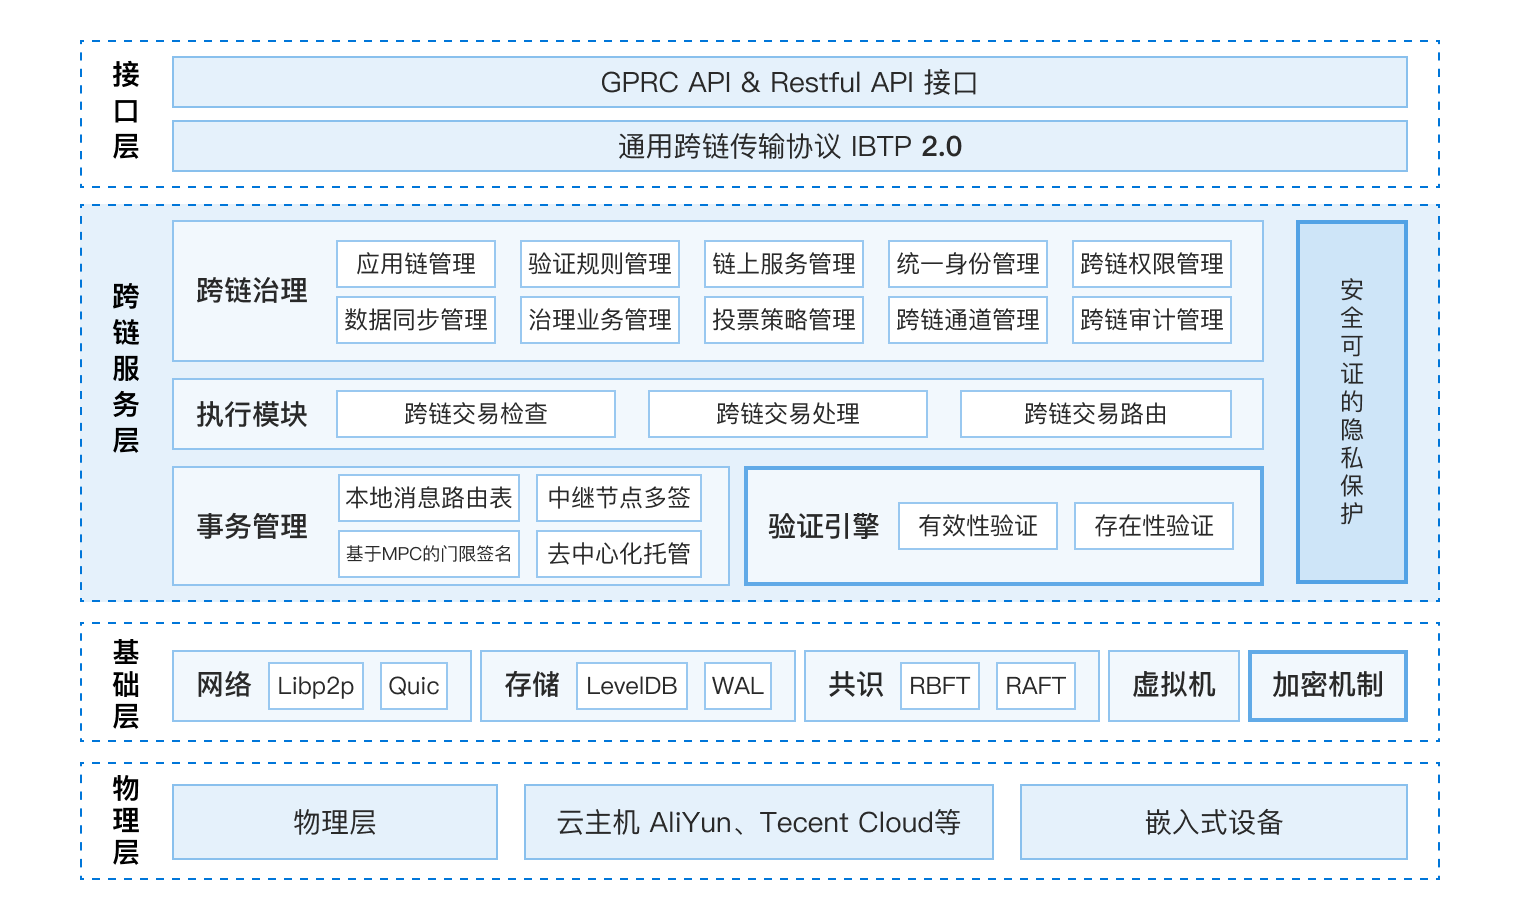
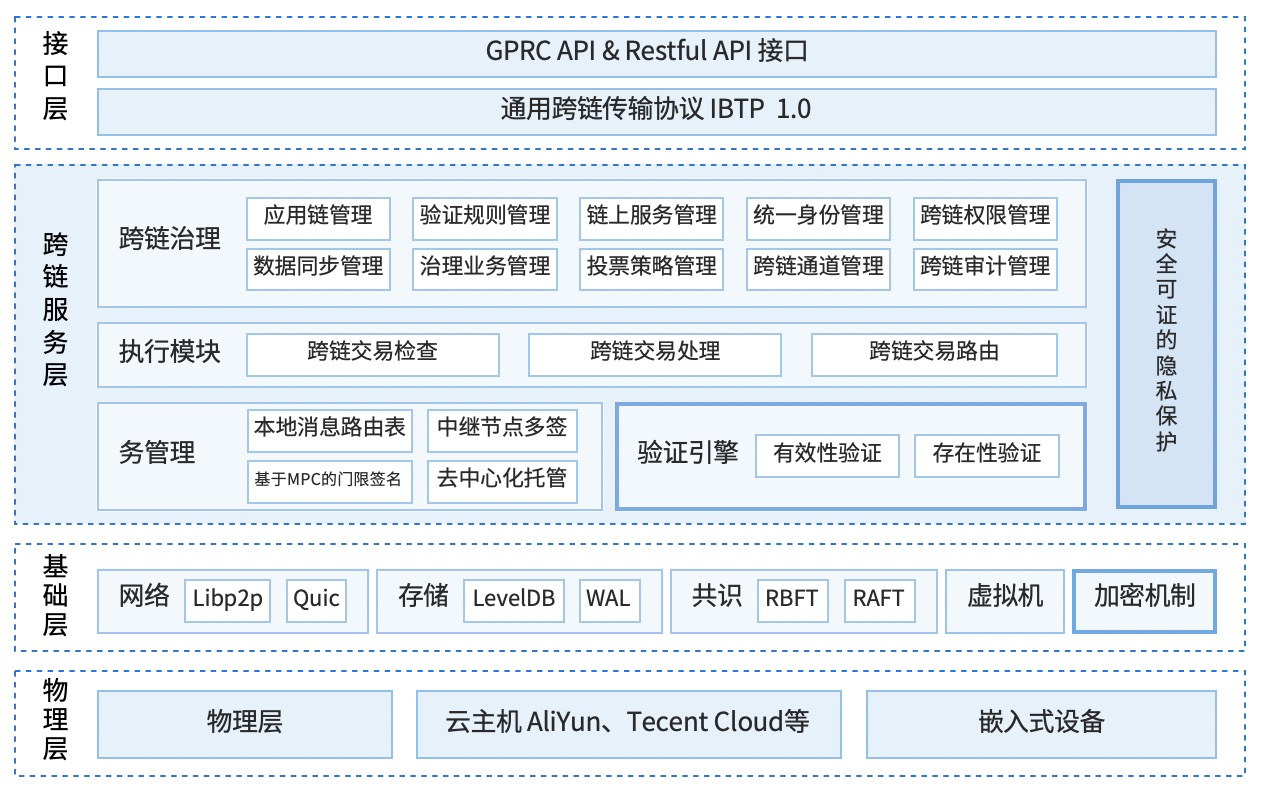
fix:pic display
feat:update relay manager

Changed region(s): [[0.0, 0.0303, 0.9873, 0.9697]]

diff --git a/docs/bitxhub/dev/cmd/pier_cmd.md b/docs/bitxhub/dev/cmd/pier_cmd.md
@@ -59,7 +59,6 @@ USAGE:
 
 COMMANDS:
    method    Command about appchain method
-   did       Command about appchain did
    register  Register pier to bitxhub
    update    update appchain in bitxhub
    activate  activate appchain in bitxhub
@@ -574,3 +573,60 @@ System version: darwin/amd64
 Golang version: go1.15.13
 ```
 
+
+
+### pier propsals 
+
+`pier proposals`命令用于撤销指定的提案。
+
+**用法**
+
+```shell
+NAME:
+   Pier proposals - proposals manage command
+
+USAGE:
+   Pier proposals command [command options] [arguments...]
+
+COMMANDS:
+   withdraw  withdraw a proposal
+
+```
+
+**子命令**
+
+#### Pier proposals withdraw
+
+```shell
+NAME:
+   Pier proposals withdraw - withdraw a proposal
+
+USAGE:
+   Pier proposals withdraw [command options] [arguments...]
+
+OPTIONS:
+   --admin-key value  Specific admin key path
+   --id value         proposal id
+   --reason value     Specify governance reason
+
+```
+
+**样例**
+
+当想要撤销某个提案时（如注册应用链的提案）使用如下命令。其中，proposal id 为想要撤销的提案号，提案生成参考[中继模式应用链管理](/v1.11/bitxhub/function/relay_manager/)。
+
+```shell
+# 应用链所在网关撤销提案
+$ pier --repo $(pwd) proposals withdraw --admin-key ./key.json --id 0x450884c9F7fdFc72E2bC1245306d15dE1750A880-0 --reason "withdraw proposal"
+
+# 撤销提案后，在中继链查询提案状态可以看到提案状态为：withdrawn by the proposal sponsor
+$ bitxhub client governance proposal query -id 0x450884c9F7fdFc72E2bC1245306d15dE1750A880-0
+========================================================================================
+Id                                            ManagedObjectId               Type         EventType  Status  A/R  IE/AE/TE  Special/Super  CreateTime           Description  EndReason
+--                                            ---------------               ----         ---------  ------  ---  --------  -------------  ----------           -----------  ---------
+0x450884c9F7fdFc72E2bC1245306d15dE1750A880-0  did:bitxhub:fabricappchain:.  AppchainMgr  register   reject  0/0  4/4/3     false/false    1643088788665643000               withdrawn by the proposal sponsor
+========================================================================================
+* A/R：approve num / reject num
+* IE/AE/TE：the total number of electorate at the time of the initial proposal / the number of available electorate currently /the minimum threshold for votes to take effect
+* Special/Super：is special proposal / is super admin voted
+```

diff --git a/docs/bitxhub/usage/overall_description.md b/docs/bitxhub/usage/overall_description.md
@@ -10,19 +10,17 @@
 
 一般来说，单中继链架构适用于大多数部署场景，建议您使用此种部署架构来体验BitXHub跨链系统。如下图所示，部署完bitxhub节点集群（也可以是solo模式的单机节点），两条或多条应用链上部署好跨链合约，然后通过各自的跨链网关接入到中继链中，完成跨链系统的搭建。
 
-<img src="../../assets/single_bitxhub.png" alt="single_bitxhub" style="zoom:50%;" />
+![single_bitxhub](../../assets/single_bitxhub.png)
 
 在明晰了部署架构之后，这里再说明下部署的一般流程：
 
 1. 首先需要部署BitXHub中继链节点，这是搭建跨链系统的基础，可以参考单中继链部署架构目录下的[中继链部署](./single_bitxhub/deploy_bitxhub.md)文档；
 2. 然后是部署Pier跨链网关节点，这是接入应用链的必要组件，其中重要的流程有跨链合约部署、网关/插件的配置修改、应用链注册和验证规则部署，可以参考单中继链部署架构目录下的[跨链网关部署](./single_bitxhub/deploy_pier.md)文档。
-
-<img src="../../assets/deploy_flow.png" alt="deploy_flow" style="zoom:50%;" />
-
+![deploy_flow](../../assets/deploy_flow.png)
 
 
 ## 3. 跨链网关直连部署架构
 
 跨链网关直连部署架构是指不使用中继链，两方的应用链通过跨链网关与对方直接连接，部署结构如下图所示，除了无需部署中继链节点之外，部署的流程与上一章基本一致，具体的部署流程可以参考[跨链网关直连模式部署](./direct_mode_pier/pier_direct_mode_deploy.md)文档。
 
-<img src="../../assets/direct_pier.png" alt="direct_pier" style="zoom:50%;" />
+![direct_pier](../../assets/direct_pier.png)

diff --git a/docs/bitxhub/operation/node_log_view.md b/docs/bitxhub/operation/node_log_view.md
@@ -8,15 +8,12 @@
 
 如果是通过nohup等后台启动的节点，在节点主配置目录的logs文件夹中就是节点的日志文件，打开即可检查日志，一般情况下除了出块，bitxhub节点之间会定时相互`ping`其它节点并返回延时信息，可以简单看到节点集群之间的网络状态。
 
-<img src="../../../assets/bitxhub-log.png" alt="bitxhub-log" style="zoom:50%;" />
-
+![bitxhub-log.png](../../../assets/bitxhub-log.png)
 ### Pier
 
 如果是在终端前台启动的节点，那么日志会实时打印在终端上，观察其无报错即可；
 
 如果是通过nohup等后台启动的节点，在节点主配置目录的logs文件夹中就是节点的日志文件，打开即可检查日志，
 
-<img src="../../../assets/pier-log.png" alt="pier-log" style="zoom:50%;" />
-
-
+![pier-log](../../../assets/pier-log.png)
 

diff --git a/docs/bitxhub/function/relay_manager.md b/docs/bitxhub/function/relay_manager.md
@@ -183,7 +183,10 @@ the activate request was submitted successfully, proposal id is 0xCc9b389cEA6b1E
 
 管理员进行审核并投票，与注册应用链部分一致，不再赘述。
 
-## 5. 注销应用链
+
+
+## 4. 注销应用链
+
 ### pier appchain logout
 如果应用链退出跨链系统，不再进行跨链，应用链管理员可以向中继链提交注销应用链的提案。命令如下：
 ```shell
@@ -198,6 +201,10 @@ the logout request was submitted successfully, proposal id is 0xCc9b389cEA6b1E28
 ```
 
 管理员进行审核并投票，与注册应用链部分一致，不再赘述。
+
+
+
+## 5. 获取应用链信息
 
 ### Pier appchain get 
 

diff --git a/docs/bitxhub/operation/node_status_check.md b/docs/bitxhub/operation/node_status_check.md
@@ -10,8 +10,7 @@
 
 正常情况下可以看到bitxhub节点的进程存活。
 
-<img src="../../../assets/bitxhub-node-status.png" alt="bitxhub-node-status" style="zoom:50%;" />
-
+![bitxhub-node-status](../../../assets/bitxhub-node-status.png)
 ### Pier
 
 可以通过ps命令查看节点进程的运行状态，示例如下：
@@ -20,5 +19,4 @@
 
 正常情况下可以看到pier节点的进程存活。
 
-<img src="../../../assets/pier-node-status.png" alt="pier-node-status" style="zoom:50%;" />
-
+![pier-node-status](../../../assets/pier-node-status.png)

diff --git a/docs/bitxhub/architecture/arch.md b/docs/bitxhub/architecture/arch.md
@@ -2,8 +2,6 @@
 
 BitXHub中继链的技术架构自下而上分为物理层、基础层、跨链服务层、接口层四个部分。
 
-<font color = red >TODO: 图片修改为IBTP1.0</font>
-
 ![Tech Arch](../../assets/tech-arch.png)
 
 第一层是物理层，中继链的设计为了满足不同场景下用户物理环境需求，支持在普通物理机、云主机或者嵌入式设备上稳定运行，兼顾多场景适用性。
